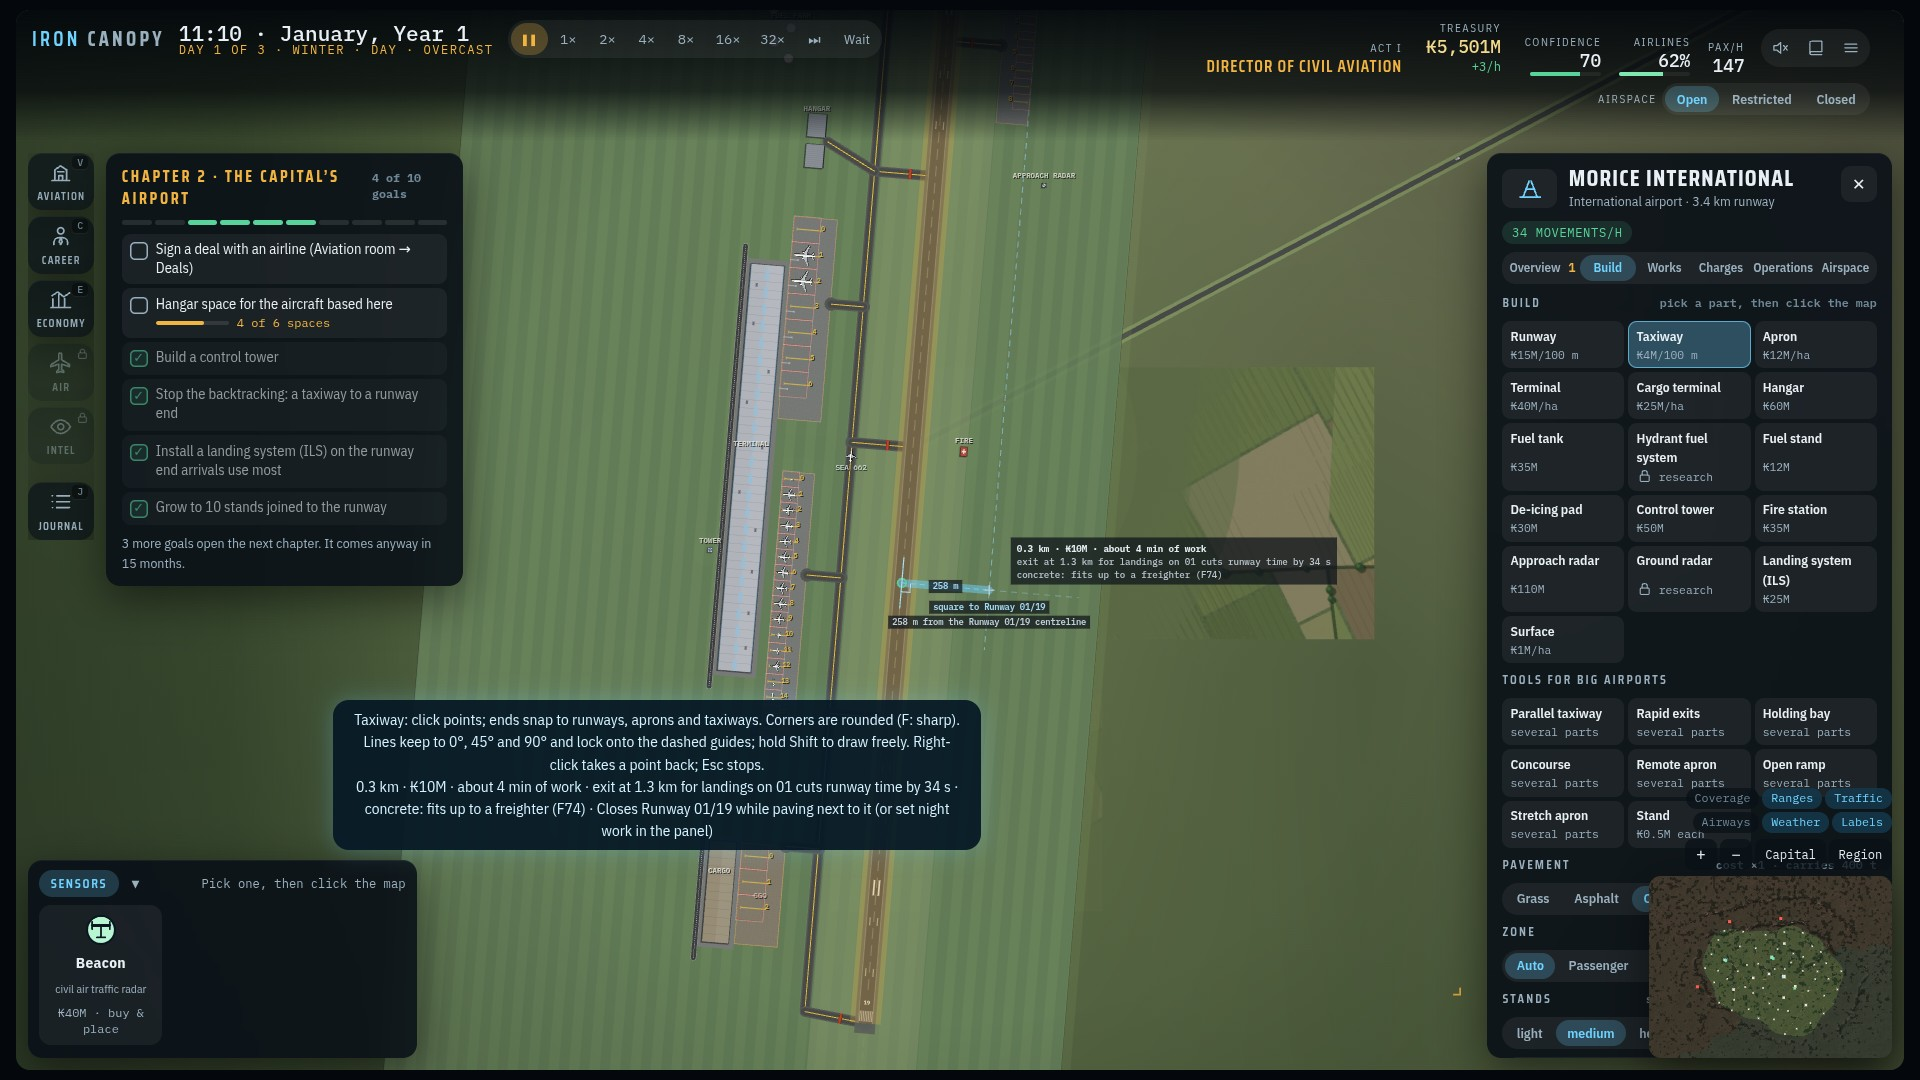
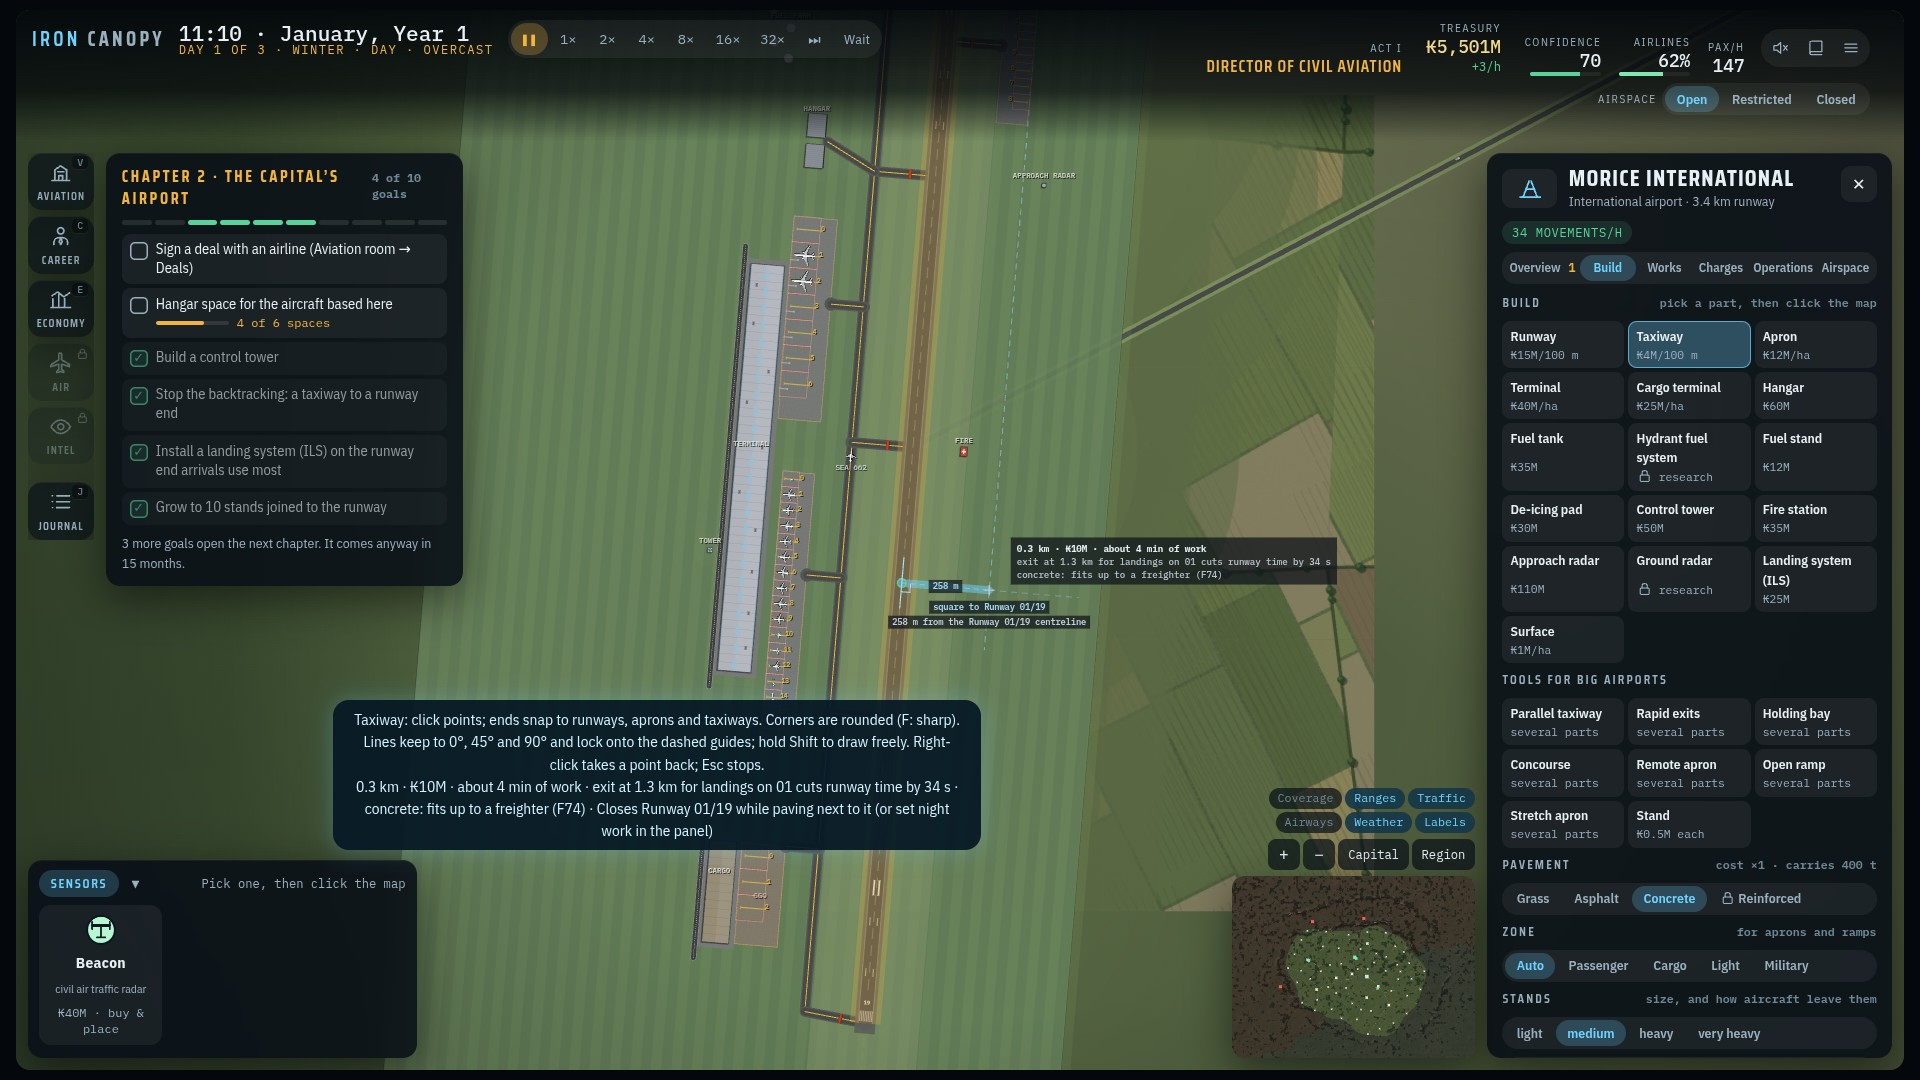
Store shots: no CSS transitions, so the builder shot has the map buttons clear of the panel
In software rendering a frame at the airport's zoom can take seconds; the shot caught
the map buttons before they slid left of the inspector.

Claude-Session: https://claude.ai/code/session_01ULe5qnqJnucN3RQed7U5S4

Changed region(s): [[0.5938, 0.5806, 0.7812, 1.0], [0.8438, 0.7333, 1.0, 0.9778], [0.6875, 0.1222, 0.7188, 0.1833]]

diff --git a/tools/store-shots.js b/tools/store-shots.js
@@ -168,6 +168,8 @@ async function fontCache(page) {
     for (const k of ['Z', 'PICK', 'BUSY', 'MIX', 'MS', 'K', 'CAM', 'BEFORE', 'DBGV']) if (process.env[k]) await page.addInitScript(([n, v]) => { window[n] = v; }, [k, process.env[k]]);
     await page.goto('file://' + path.resolve(__dirname, '../iron-canopy/index.html'));
     await page.waitForFunction(() => window.IC && IC.begin && IC.S, null, { timeout: 30000 });
+    // no sliding panels: in software rendering a frame can take seconds, and a shot would catch them halfway
+    await page.addStyleTag({ content: '*,*::before,*::after{transition:none!important}' });
     try { await page.evaluate(`(async () => { const U = IC.U; ${LIB} ${SCENES[name]} })()`); } catch (e) { errors.push(e.message.split('\n')[0]); }
     const mouse = await page.evaluate(() => window.__mouse);
     if (mouse) { await page.mouse.move(mouse[0], mouse[1]); await page.waitForTimeout(600); }
